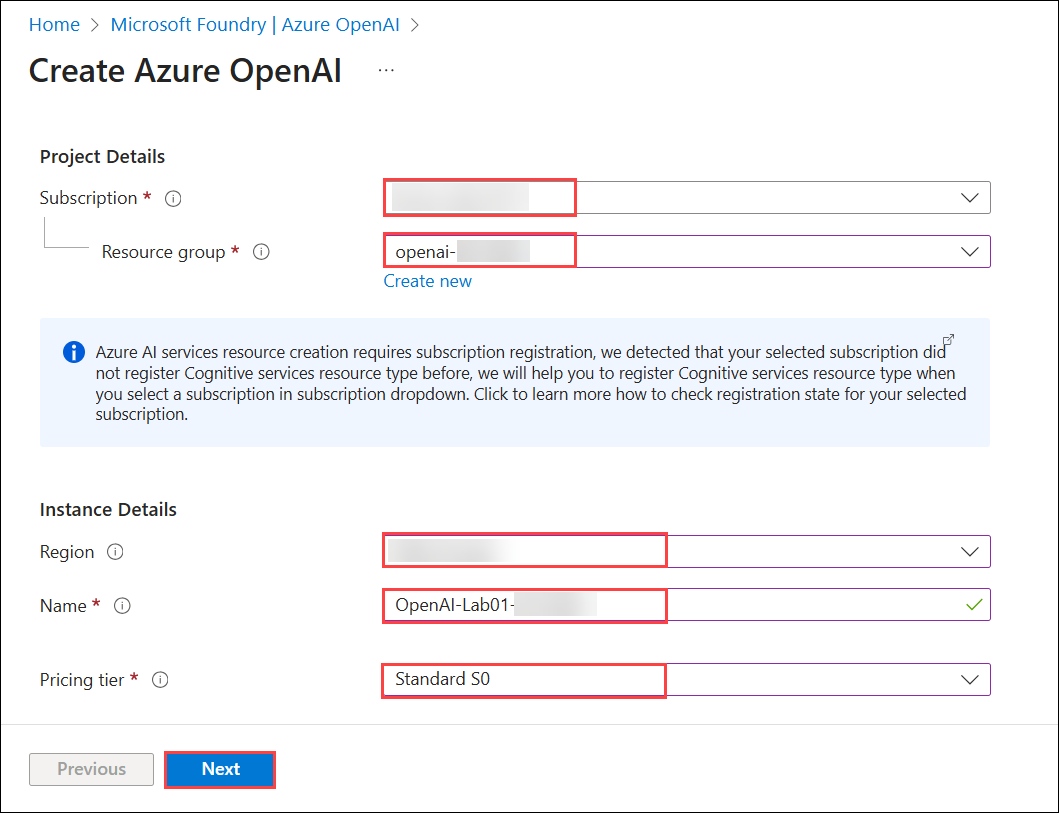
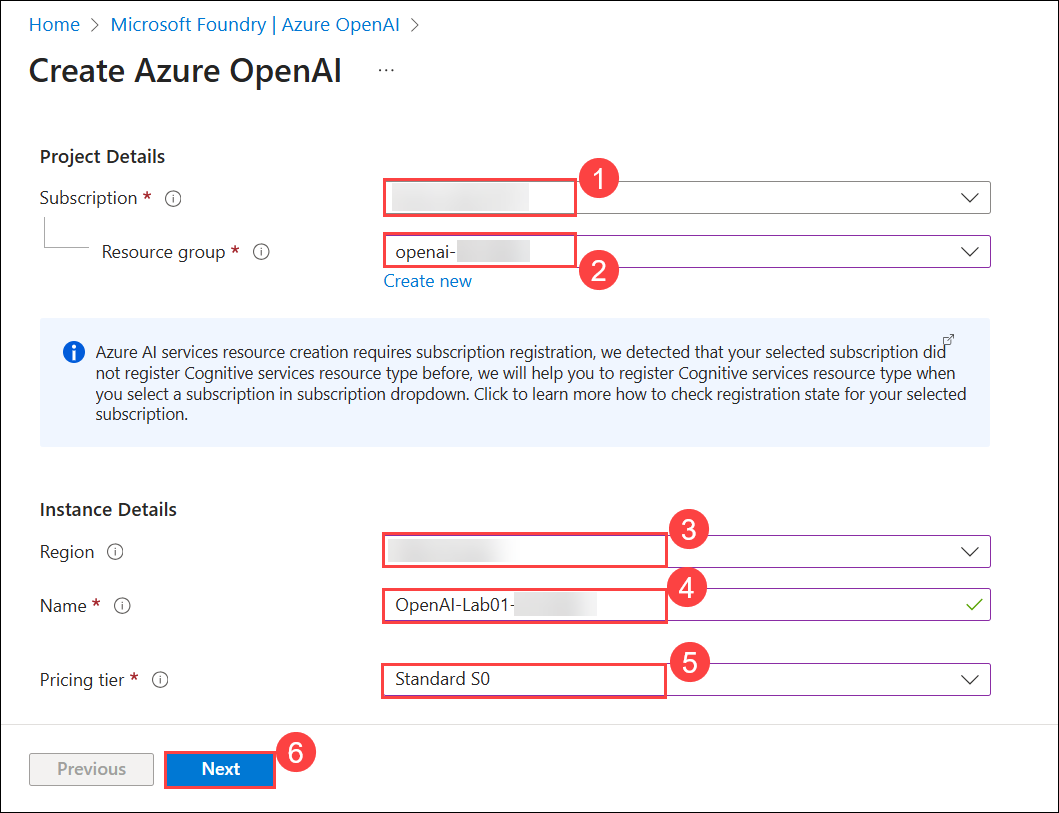
Updates

diff --git a/Instructions/Labs/guided-lab-02.md b/Instructions/Labs/guided-lab-02.md
@@ -42,7 +42,7 @@ In this task, you'll create an Azure resource in the Azure portal, selecting the
     
     - Pricing tier: **Standard S0 (5)**
 
-    - Click **Next** thrice to navigate to the **Review + submit** tab.
+    - Click **Next (6)** thrice to navigate to the **Review + submit** tab.
   
       ![](../media/clicknext.png)
 
